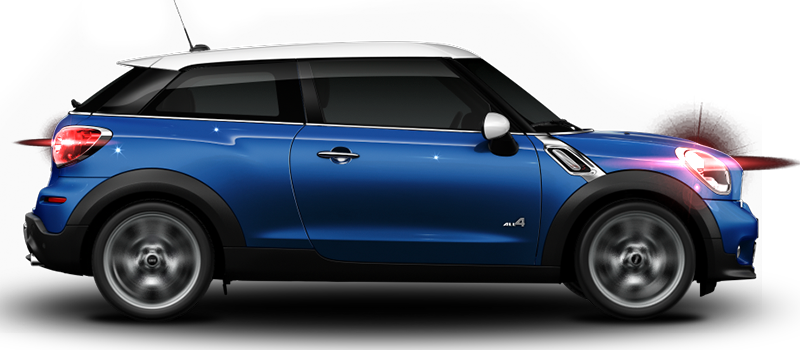
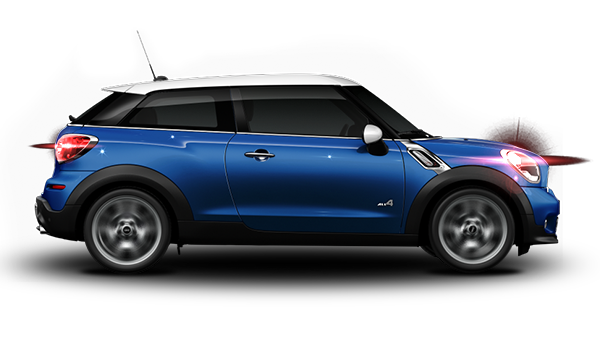
added last frame

diff --git a/mini.html b/mini.html
@@ -34,26 +34,32 @@
       </div>
       <div class="frame final">
         <div class="color-switcher flex">
-          <h4>Change color</h4>
-          <div class="colors flex">
-            <div class="blue active"> </div>
-            <div class="yellow"> </div>
-            <div class="red"> </div>
+          <div class="colors-wrapper flex">
+            <h4>Change color</h4>
+            <div class="colors flex">
+              <div class="select blue active"> </div>
+              <div class="select yellow"> </div>
+              <div class="select red"> </div>
+            </div>
+          </div>
+          <div class="cars-wrapper">
+            <img src="./assets/mini_front_colors_blue.png">
+            <img src="./assets/mini_front_colors_yellow.png">
+            <img src="./assets/mini_front_colors_red.png">
           </div>
         </div>
       </div>
       <div class="car">
         <img src="./assets/Cooper-S1.png">
       </div>
-
       <div class="bottom flex">
-        <div class="cta flex">
+        <button class="cta flex">
           <svg xmlns="http://www.w3.org/2000/svg" viewBox="0 0 30.942 22.949">
             <path d="M0 0l11.482 11.474L0 22.949h8.589l11.482-11.475L8.589 0z"/>
             <path d="M10.871 0l11.483 11.474-11.483 11.475h8.589l11.482-11.475L19.46 0z"/>
           </svg>
-          <p>Explore now.</p>
-        </div>
+          Explore now.
+        </button>
         <div class="logo"><img src="./assets/mini_logo.png"></div>
 
       </div>
@@ -63,6 +69,6 @@
   <script src="https://cdnjs.cloudflare.com/ajax/libs/jquery/3.3.1/jquery.min.js"></script>
   <script src='https://cdnjs.cloudflare.com/ajax/libs/gsap/2.0.2/TweenMax.min.js'></script>
   <script src='https://cdnjs.cloudflare.com/ajax/libs/gsap/latest/plugins/CSSPlugin.min.js'></script>
-
+  <script src='./js/main.js'></script>
 </body>
 </html>

diff --git a/css/base.css b/css/base.css
@@ -17,7 +17,6 @@
 
 body {
   font-family: 'mibd', sans-serif;
-  text-transform: uppercase;
 }
 
 h1,
@@ -25,6 +24,7 @@ h3,
 h4 {
   text-transform: uppercase;
   color: white;
+  letter-spacing: .35px;
 }
 
 .container {
@@ -87,19 +87,20 @@ h4 {
 .cta svg {
   width: 10px;
   fill: white;
+  margin-right: 5px;
 }
 
 .cta {
+  border: 0;
   align-items: center;
-  max-width: 140px;
+  min-width: 140px;
   padding: 10px;
   background-color: black;
-}
-
-.cta p {
-  padding-left: 5px;
   color: white;
   font-size: 14px;
+  text-transform: uppercase;
+  font-family: 'mibd', sans-serif;
+  letter-spacing: .35px;
 }
 
 .bottom .logo {
@@ -125,17 +126,21 @@ h4 {
 
 .car {
   width: 100%;
-  top: 50px;
-  left: -2px;
+  top: 55px;
+  left: 0;
   z-index: 9;
+  display: flex;
+  justify-content: center;
+  align-items: center;
+  visibility: hidden;
 }
 
 .car img {
-  width: 100%;
+  max-width: 95%;
+  position: relative;
 }
 
 .frame.logo {
-  /* z-index: 10; */
   background: black;
   display: flex;
   justify-content: center;
@@ -143,8 +148,7 @@ h4 {
   border: 8px solid var(--blue);
 }
 
-.final {
-  /* z-index: 1; */
+.frame.final {
   background: black;
   display: flex;
   border: 8px solid var(--blue);
@@ -152,6 +156,11 @@ h4 {
 
 .color-switcher {
   width: 100%;
+  flex-direction: column;
+}
+
+.color-switcher .colors-wrapper {
+  margin: 8px 0;
 }
 
 .color-switcher .colors {
@@ -160,11 +169,21 @@ h4 {
   min-width: 85px;
 }
 
-.color-switcher .colors>div {
+.color-switcher .colors>.select {
   width: 20px;
   height: 20px;
 }
 
-.color-switcher .colors>div.active {
+.color-switcher .colors>.select.active {
   border: 1px solid white;
+}
+
+.color-switcher .cars-wrapper {
+  position: relative;
+}
+
+.color-switcher .cars-wrapper>img {
+  max-width: 100%;
+  position: absolute;
+  top: 5px
 }

diff --git a/js/main.js b/js/main.js
@@ -1,0 +1,17 @@
+$(document).ready(function() {
+  // Button hover animation
+  $('.cta').hover(
+    function() {
+      TweenLite.to(this, 1, {
+        backgroundColor: '#ff00ff',
+        ease: Elastic.easeInOut,
+      });
+    },
+    function() {
+      TweenLite.to(this, 1, {
+        backgroundColor: '#000000',
+        ease: Elastic.easeInOut,
+      });
+    }
+  );
+});
